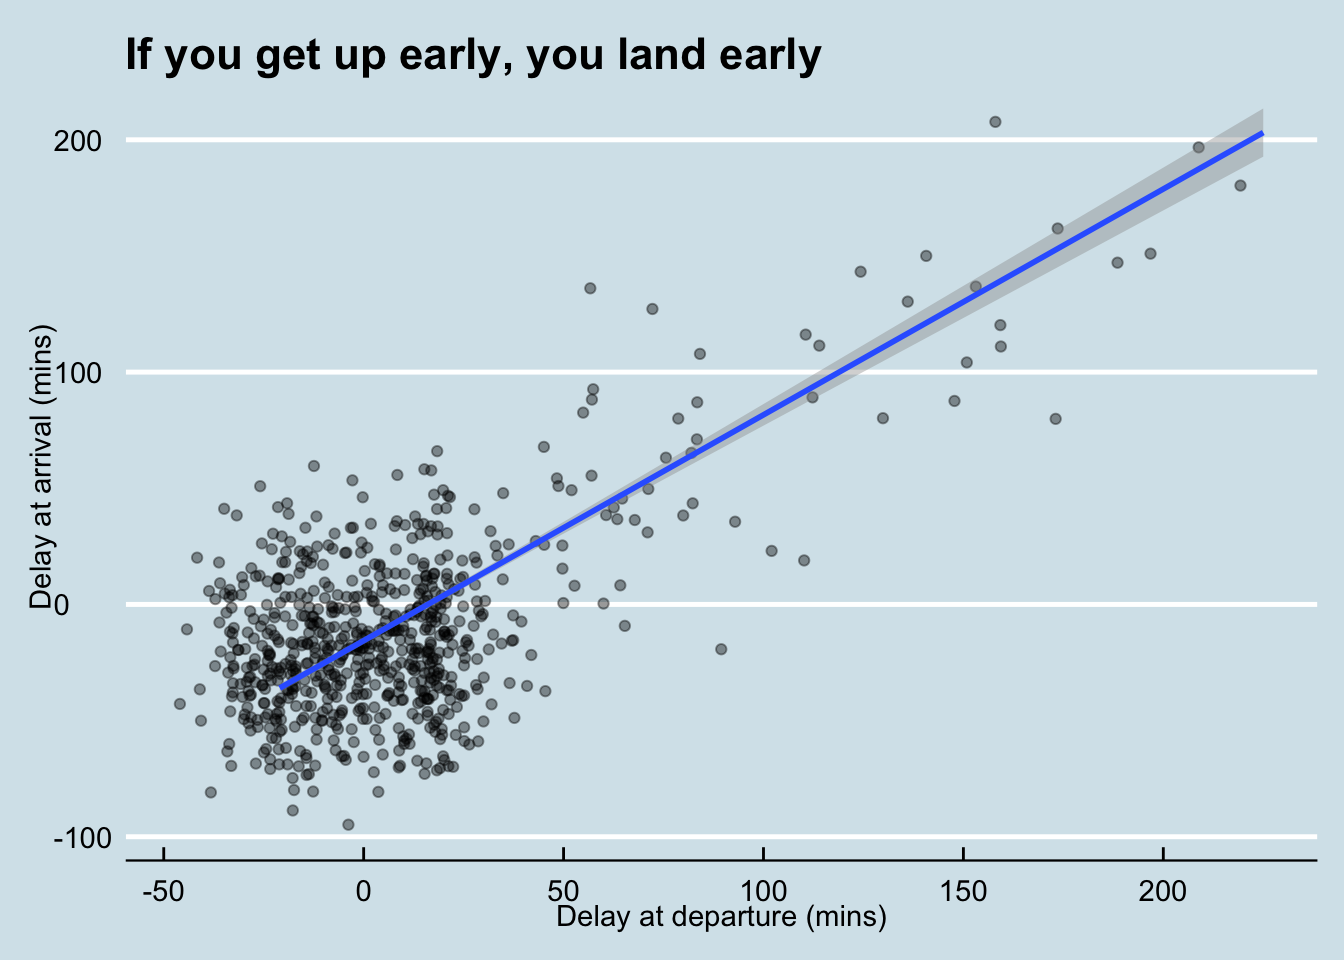
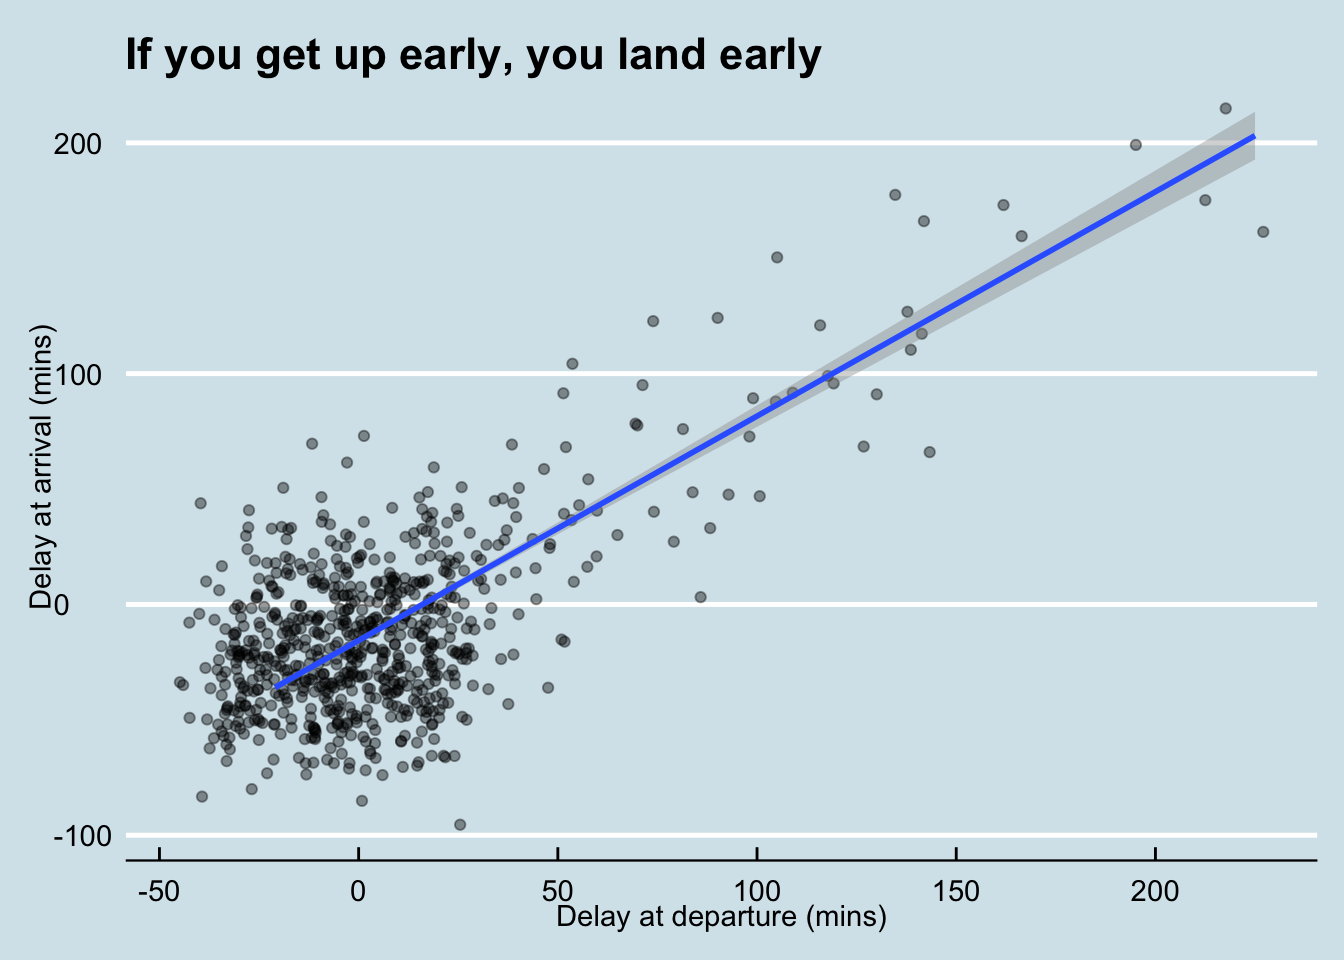
ohhh

diff --git a/public/blogs/index.html b/public/blogs/index.html
@@ -138,23 +138,6 @@
                     </section>
                     
                     <section>
-                        <a href="/blogs/blog7/" class="image">
-							<img src="/img/blogs/pic10.jpeg" alt="" data-position="center center" />
-						</a>
-                        <div class="content">
-                            <div class="inner">
-                                <header class="major">
-                                    <h3>Behind the World Cup&#39;s results</h3>
-                                </header>
-                                <p></p>
-                                <ul class="actions">
-                                    <li><a href="/blogs/blog7/" class="button">Learn more</a></li>
-                                </ul>
-                            </div>
-                        </div>
-                    </section>
-                    
-                    <section>
                         <a href="/blogs/blog1/" class="image">
 							<img src="/img/blogs/pic11.jpeg" alt="" data-position="center center" />
 						</a>
@@ -166,6 +149,23 @@
                                 <p></p>
                                 <ul class="actions">
                                     <li><a href="/blogs/blog1/" class="button">Learn more</a></li>
+                                </ul>
+                            </div>
+                        </div>
+                    </section>
+                    
+                    <section>
+                        <a href="/blogs/blog7/" class="image">
+							<img src="/img/blogs/pic10.jpg" alt="" data-position="center center" />
+						</a>
+                        <div class="content">
+                            <div class="inner">
+                                <header class="major">
+                                    <h3>Getting to know your delays</h3>
+                                </header>
+                                <p></p>
+                                <ul class="actions">
+                                    <li><a href="/blogs/blog7/" class="button">Learn more</a></li>
                                 </ul>
                             </div>
                         </div>

diff --git a/public/blogs/blog7/index.html b/public/blogs/blog7/index.html
@@ -8,7 +8,7 @@
 	<meta name="description" content="LBS MAM student, graduating in 2021 and currently exploring R">
 	<meta name="author" content="Martino Armanini">
 	<meta name="generator" content="Hugo 0.74.3" />
-	<title>Behind the World Cup&#39;s results &middot; Portfolio website of Martino Armanini</title>
+	<title>Getting to know your delays &middot; Portfolio website of Martino Armanini</title>
 	<!-- Stylesheets -->
 	
 	<link rel="stylesheet" href="/css/main.css"/>
@@ -71,10 +71,10 @@
                     <section id="one">
                         <div class="inner">
                             <header class="major">
-                                <h1>Behind the World Cup&#39;s results</h1>
+                                <h1>Getting to know your delays</h1>
                             </header>
                             
-                                <span class="image main"><img src="/img/blogs/pic10.jpeg" alt="" /></span>
+                                <span class="image main"><img src="/img/blogs/pic10.jpg" alt="" /></span>
                             
                             
 

diff --git a/content/blogs/blog7.html b/content/blogs/blog7.html
@@ -5,10 +5,10 @@ categories:
 date: "2017-10-31T21:28:43-05:00"
 description: ""
 draft: false
-image: pic10.jpeg
+image: pic10.jpg
 keywords: ""
 slug: blog7
-title: Behind the World Cup's results
+title: Getting to know your delays
 ---
 
 
